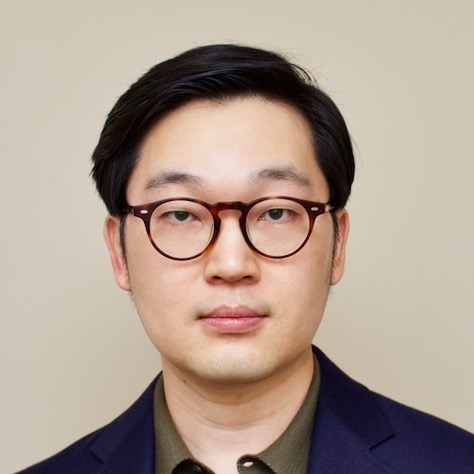
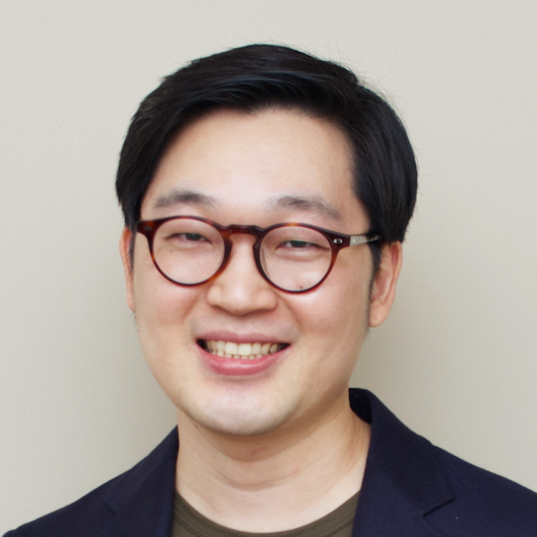
refined

diff --git a/assets/main.scss b/assets/main.scss
@@ -222,10 +222,19 @@
   display: inline;
   margin: 0 auto;
   margin-left: 0%; //centers the image
-  height: 100%;
+  height: 250px;
   width: auto;
 }
 
+h2  {
+color: #34495E;
+}
+
+a { color: #2a7ae2; text-decoration: none; }
+
+a:visited { color: #1756a9; }
+
+a:hover { color: #111; text-decoration: underline; }
 
 #container {
   display: flex;                  /* establish flex container */

diff --git a/publications.md b/publications.md
@@ -4,47 +4,6 @@ title: Publications
 permalink: /publications/
 ---
 
-<!-- 
-<script src="https://ajax.googleapis.com/ajax/libs/jquery/3.5.1/jquery.min.js"></script>
-<script>
-	$(document).on("click", ".openaa", function() {
-		var index = $(".openaa").index(this);
-		$(".popup-overlay:eq("+index+")").addClass("active");
-		$(".popup-content:eq("+index+")").addClass("active");
-});
-
-
-//removes the "active" class to .popup and .popup-content when the "Close" button is clicked 
-$(document).on("click", ".closeaa", function() {
-  $(".popup-overlay, .popup-content").removeClass("active");
-});
-
-</script>
-
-Creates the popup body
-<div class="popup-overlay">
-
- <div class="popup-content">
-    <h2>Pop-Up</h2>
-    <p> first.</p>
-
-    <button class="closeaa">Close</button>    
-</div>
-</div>
-
-<div class="popup-overlay">
- <div class="popup-content">
-    <h2>Pop-Up</h2>
-    <p>second.</p>
-    <button class="closeaa">Close</button>    
-</div>
-</div>
-
-
-<button class="openaa">Open</button>
-<button class="openaa">Open</button>
- -->
-
 ## Publications
   
 I have published papers in AI and ML conferences (e.g., UAI, NeurIPS, ICML, AAAI).
@@ -58,125 +17,68 @@ During my PhD study, I mostly spent time on understanding causal discovery from 
 
 
 
-<!-- , <span style="background-color: #00FF00">first author</span>, <span style="background-color: #FFFF00">co-first</span>, <span style="background-color: #00FFFF">second</span> -->
+\* for joint first authorship
 
 
-<!-- Decision Making <button type="button" class="btn btn-set1-3">DM</button>
-Identifiability <button type="button" class="btn btn-set1-1">ID</button>
-Transportability <button type="button" class="btn btn-set1-2">TR</button>
-Relational  <button type="button" class="btn btn-set1-4">REL</button>
-Conditional Independence Test <button type="button" class="btn btn-danger">CIT</button>
- -->
+<button type="button" class="btn btn-set1-3">DM</button> Characterizing Optimal Mixed Policies: Where to Intervene and What to Observe [\[paper\]](/assets/r63-reprint.pdf), [\[slides\]](/assets/2020-neurips-presentation.pdf), [\[poster\]](/assets/2020-neurips-sanghack-poster.pdf)<br> **Sanghack Lee** and Elias Bareinboim<br> NeurIPS 2020<br> 
 
 
-
-<button type="button" class="btn btn-set1-3">DM</button> **Characterizing Optimal Mixed Policies: Where to Intervene and What to Observe**<br>
-Sanghack Lee and Elias Bareinboim<br> 
-NeurIPS 2020<br>
-[\[paper\]](/assets/r63-reprint.pdf), [\[slides\]](/assets/2020-neurips-presentation.pdf), [\[poster\]](/assets/2020-neurips-sanghack-poster.pdf)
+<button type="button" class="btn btn-set1-1">ID</button> Causal Effect Identifiability under Partial-Observability [\[paper\]](https://causalai.net/r58.pdf) <br> **Sanghack Lee**, and Elias Bareinboim<br> ICML 2020<br> 
 
 
-<button type="button" class="btn btn-set1-1">ID</button> **Causal Effect Identifiability under Partial-Observability** <br>
-Sanghack Lee, and Elias Bareinboim<br>
-ICML 2020<br>
-[\[paper\]](https://causalai.net/r58.pdf)
+<button type="button" class="btn btn-set1-2">TR</button> General Transportability --- Synthesizing Experiments from Heterogeneous Domains [\[paper\]](https://aaai.org/ojs/index.php/AAAI/article/view/6582/6438)<br> **Sanghack Lee**, Juan D. Correa, and Elias Bareinboim<br> AAAI 2020<br> 
+
+<button type="button" class="btn btn-set1-1">ID</button> Identifiability from a Combination of Observations and Experiments [\[paper\]](https://aaai.org/ojs/index.php/AAAI/article/view/7119/6973), [\[slides\]](/assets/AAAI2020-GID-key.pdf)<br> **Sanghack Lee**, Juan D. Correa, and Elias Bareinboim<br> AAAI 2020 <br> 
+
+
+<button type="button" class="btn btn-set1-1">ID</button> General Identifiability with Arbitrary Surrogate Experiments [\[paper\]](http://auai.org/uai2019/proceedings/papers/144.pdf) <br> **Sanghack Lee**, Juan D. Correa, and Elias Bareinboim<br> UAI 2019, <font color="#e41a1c">Best Paper Award</font> <br> 
+
+<button type="button" class="btn btn-set1-4">REL</button>  Towards Robust Relational Causal Discovery [\[paper\]](http://auai.org/uai2019/proceedings/papers/127.pdf) <br> **Sanghack Lee** and Vasant Honavar <br> UAI 2019<br> 
 
 
 
-<button type="button" class="btn btn-set1-2">TR</button> **General Transportability --- Synthesizing Experiments from Heterogeneous Domains** <br>
-Sanghack Lee, Juan D. Correa, and Elias Bareinboim<br>
-AAAI 2020<br>
-[\[paper\]](https://aaai.org/ojs/index.php/AAAI/article/view/6582/6438)
+<button type="button" class="btn btn-set1-3">DM</button> Fairness in Algorithmic Decision Making: An Excursion Through the Lens of Causality [\[paper\]](https://arxiv.org/pdf/1903.11719.pdf)<br> Aria Khademi, **Sanghack Lee**, David Foley, and Vasant Honavar<br> WWW 2019<br> 
 
-
-<button type="button" class="btn btn-set1-1">ID</button> **Identifiability from a Combination of Observations and Experiments** <br>
-Sanghack Lee, Juan D. Correa, and Elias Bareinboim<br>
-AAAI 2020 <br>
-[\[paper\]](https://aaai.org/ojs/index.php/AAAI/article/view/7119/6973), [\[slides\]](/assets/AAAI2020-GID-key.pdf) 
+<button type="button" class="btn btn-set1-3">DM</button> On Structural Causal Bandit with Non-manipulable Variables [\[paper\]](https://causalai.net/r40.pdf), [\[poster\]](/assets/AAAI2019_poster.pdf), [\[slides\]](/assets/AAAI2019_presentation.pdf)<br> **Sanghack Lee** and Elias Bareinboim <br> AAAI 2019<br> 
 
 
 
-<button type="button" class="btn btn-set1-1">ID</button> **General Identifiability with Arbitrary Surrogate Experiments** <br>
-Sanghack Lee, Juan D. Correa, and Elias Bareinboim<br>
-UAI 2019, <font color="#e41a1c">Best Paper Award</font> <br>
-[\[paper\]](http://auai.org/uai2019/proceedings/papers/144.pdf)  
-		
-
-<button type="button" class="btn btn-set1-4">REL</button>  **Towards Robust Relational Causal Discovery** <br>
-Sanghack Lee and Vasant Honavar <br>
-UAI 2019<br>
- [\[paper\]](http://auai.org/uai2019/proceedings/papers/127.pdf)
-
-<button type="button" class="btn btn-set1-3">DM</button> **Fairness in Algorithmic Decision Making: An Excursion Through the Lens of Causality**<br>
-Aria Khademi, Sanghack Lee, David Foley, and Vasant Honavar<br>
-WWW 2019<br>
- [\[paper\]](https://arxiv.org/pdf/1903.11719.pdf)
-
-<button type="button" class="btn btn-set1-3">DM</button> **On Structural Causal Bandit with Non-manipulable Variables** <br>
-Sanghack Lee and Elias Bareinboim <br>
-AAAI 2019<br>
-[\[paper\]](https://causalai.net/r40.pdf), [\[poster\]](/assets/AAAI2019_poster.pdf), [\[slides\]](/assets/AAAI2019_presentation.pdf) 
+<button type="button" class="btn btn-set1-3">DM</button>  Structural Causal Bandits: Where to Intervene? [\[paper\]](https://causalai.net/r36.pdf), [\[code\]](https://github.com/sanghack81/SCMMAB-NIPS2018), [\[poster\]](/assets/nips2018-poster.pdf)<br> **Sanghack Lee** and Elias Bareinboim<br> NeurIPS 2018<br> 
 
 
-<button type="button" class="btn btn-set1-3">DM</button>  **Structural Causal Bandits: Where to Intervene?**<br>
-Sanghack Lee and Elias Bareinboim<br>
-NeurIPS 2018<br>
-  [\[paper\]](https://causalai.net/r36.pdf), [\[code\]](https://github.com/sanghack81/SCMMAB-NIPS2018), [\[poster\]](/assets/nips2018-poster.pdf) 
+### Pre-Ph.D. ---
+
+<button type="button" class="btn btn-set1-4">REL</button> <button type="button" class="btn btn-set1-5">CIT</button>  A Kernel Conditional Independence Test for Relational Data [\[code\]](https://github.com/sanghack81/KRCIT), [\[paper\]](/assets/krcit.pdf)<br> **Sanghack Lee** and Vasant Honavar<br> UAI 2017<br> 
 
 
-<button type="button" class="btn btn-set1-4">REL</button> <button type="button" class="btn btn-set1-5">CIT</button>  **A Kernel Conditional Independence Test for Relational Data**<br>
-Sanghack Lee and Vasant Honavar<br>
-UAI 2017<br>
-[\[code\]](https://github.com/sanghack81/KRCIT), [\[paper\]](/assets/krcit.pdf)
+<button type="button" class="btn btn-set1-5">CIT</button> Self-Discrepancy Conditional Independence Test [\[code\]](https://github.com/sanghack81/SDCIT), [\[paper\]](/assets/SDCIT-edited.pdf)<br> **Sanghack Lee** and Vasant Honavar<br> UAI 2017<br> 
+
+<button type="button" class="btn btn-set1-4">REL</button> A Characterization of Markov Equivalence Classes for Relational Causal Model with Path Semantics [\[code\]](https://github.com/sanghack81/pyRCDs), [\[paper\]](/assets/UAI-2016-RpCD.pdf), [\[appendix\]](/assets/UAI-2016-RpCD-supp_fix_june_4.pdf)<br> **Sanghack Lee** and Vasant Honavar<br> UAI 2016<br> 
+
+<button type="button" class="btn btn-set1-4">REL</button> On Learning Causal Models from Relational Data [\[code\]](https://github.com/sanghack81/rcd-light) [\[paper\]](https://www.aaai.org/ocs/index.php/AAAI/AAAI16/paper/view/11972/12089)<br> **Sanghack Lee** and Vasant Honavar<br> AAAI 2016 <br> 
 
 
-<button type="button" class="btn btn-set1-5">CIT</button> **Self-Discrepancy Conditional Independence Test**<br>
-Sanghack Lee and Vasant Honavar<br>
-UAI 2017<br>
-[\[code\]](https://github.com/sanghack81/SDCIT), [\[paper\]](/assets/SDCIT-edited.pdf)
-
-<button type="button" class="btn btn-set1-4">REL</button> **A Characterization of Markov Equivalence Classes for Relational Causal Model with Path Semantics** <br>
-Sanghack Lee and Vasant Honavar<br>
-UAI 2016<br>
-[\[code\]](https://github.com/sanghack81/pyRCDs), [\[paper\]](/assets/UAI-2016-RpCD.pdf), [\[appendix\]](/assets/UAI-2016-RpCD-supp_fix_june_4.pdf) 
-
-<button type="button" class="btn btn-set1-4">REL</button> **On Learning Causal Models from Relational Data** <br>
-Sanghack Lee and Vasant Honavar<br>
-AAAI 2016 <br>
-[\[code\]](https://github.com/sanghack81/rcd-light) [\[paper\]](https://www.aaai.org/ocs/index.php/AAAI/AAAI16/paper/view/11972/12089) 
+"Teens are from Mars, Adults are from Venus": Analyzing and Predicting Age Groups with Behavioral Characteristics in Instagram [\[paper\]](http://dl.acm.org/citation.cfm?id=2908160)<br> Kyungsik Han, **Sanghack Lee**, Jin Yea Jang, Yong Jung, and Dongwon Lee<br> WebSci 2016<br> 
 
 
-**"Teens are from Mars, Adults are from Venus": Analyzing and Predicting Age Groups with Behavioral Characteristics in Instagram**<br>
-Kyungsik Han, Sanghack Lee, Jin Yea Jang, Yong Jung, and Dongwon Lee<br>
-WebSci 2016<br>
-[\[paper\]](http://dl.acm.org/citation.cfm?id=2908160) 
+
+<button type="button" class="btn btn-set1-4">REL</button> Lifted Representation of Relational Causal Models Revisited: Implications for Reasoning and Structure Learning [\[paper\]](http://dl.acm.org/citation.cfm?id=3020273)<br> **Sanghack Lee** and Vasant Honavar<br> UAI 2015 Workshop on Advances in Causal Inference<br> 
 
 
-<button type="button" class="btn btn-set1-4">REL</button> **Lifted Representation of Relational Causal Models Revisited: Implications for Reasoning and Structure Learning**<br>
-Sanghack Lee and Vasant Honavar<br>
-UAI 2015 Workshop on Advances in Causal Inference<br>
-[\[paper\]](http://dl.acm.org/citation.cfm?id=3020273)
-
-<button type="button" class="btn btn-set1-2">TR</button>  **Transportability from Multiple Environments with Limited Experiments**<br>
-Elias Bareinboim\*, Sanghack Lee\*, Vasant Honavar, and Judea Pearl<br>
-NeurIPS 2013<br>
-[\[paper\]](https://papers.nips.cc/paper/5536-transportability-from-multiple-environments-with-limited-experiments-completeness-results)
-
-<button type="button" class="btn btn-set1-2">TR</button> **Causal Transportability of Experiments on Controllable Subsets of Variables: z-Transportability**<br>
-Sanghack Lee and Vasant Honavar<br>
-UAI 2013<br>
-[\[paper\]](http://dl.acm.org/citation.cfm?id=3023675)
-
-<button type="button" class="btn btn-set1-2">TR</button> **m-Transportability: Transportability of a Causal Effect from Multiple Environments**<br>
-Sanghack Lee and Vasant Honavar<br>
-AAAI 2013<br>
-
-**Learning Classifiers from Distributional Data**<br>
-Harris Lin\*, Sanghack Lee\*, Ngot Bui\*, and Vasant Honavar<br>
-IEEE Second International Congress on Big Data
+<button type="button" class="btn btn-set1-2">TR</button>  Transportability from Multiple Environments with Limited Experiments [\[paper\]](https://papers.nips.cc/paper/5536-transportability-from-multiple-environments-with-limited-experiments-completeness-results)<br> Elias Bareinboim\*, **Sanghack Lee**\*, Vasant Honavar, and Judea Pearl<br> NeurIPS 2013<br> 
 
 
-\* equally contributed.
+<button type="button" class="btn btn-set1-2">TR</button> Causal Transportability of Experiments on Controllable Subsets of Variables: z-Transportability [\[paper\]](http://dl.acm.org/citation.cfm?id=3023675)<br> **Sanghack Lee** and Vasant Honavar<br> UAI 2013<br> 
+
+
+<button type="button" class="btn btn-set1-2">TR</button> m-Transportability: Transportability of a Causal Effect from Multiple Environments<br> **Sanghack Lee** and Vasant Honavar<br> AAAI 2013<br>
+
+
+Learning Classifiers from Distributional Data<br> Harris Lin\*, **Sanghack Lee**\*, Ngot Bui\*, and Vasant Honavar<br> IEEE Second International Congress on Big Data
+
+
+
+
 
 <!-- - (pre-PhD) A New Polynimial Time Algorithm for Bayesian Network Structure Learning
 In Proceedings of the Second International Conference on Advanced Data Mining and Applications (ADMA 2006). pp. 501-508. (LNAI 4093)

diff --git a/index.md b/index.md
@@ -16,11 +16,12 @@ Columbia University.
 
 
 <div id="container">
-	  <div float="left" border=10px>
-  	<div class="image-cropper">
-<img src="assets/slee.jpeg" class="profile-pic"/>
-</div>
-  </div>
+	<!--   <div float="left" border=10px>
+  	 <div class="image-cropper">-->
+
+<!-- </div>
+  </div> -->
+  <img src="assets/slee.jpeg" class="profile-pic"/>
   <div id="aboutme" float="right">
 <p style="margin-bottom:3mm;">
 	I am an <b>Associate Research Scientist</b> at <b>Columbia University</b>  working with Prof. <a href="http://causalai.net">Elias Bareinboim</a>. Prior to joining Columbia University, I was a Postdoctoral Research Associate at Computer Science, Purdue University.
@@ -28,18 +29,40 @@ I got my Ph.D. in College of Information Sciences and Technology (with computer 
 </p>
 Currently, I am working on developing methods for applying causality in sequential decision-making
 and developing theory of causal effect identifiability and transportability.
-During my Ph.D. study, I focused on causal discovery in relational domain.
+During my Ph.D. study, I focused on causal discovery in relational domain.<br>
 [<a href="/assets/cv.pdf">Curriculum Vitae</a>]
   </div>
+  
 </div>
 
 <br>
 <!-- , 
 [<a href="https://linkedin.com/in/sanghack-lee-65b52a28"><i class="fa fa-linkedin"></i>LinkedIn</a>] -->
 
+<p style="margin-bottom:1.25cm;"></p>
+## Research Interests
+
+- **Causal Inference** (how can we identify the effect of an intervention?),  **Causal Decision Making** (how can we utilize causal information in decision making?),  **Causal Discovery** (how can we establish causal relationships from complex data?) 
+- (Future) Developing theories and applications for *health* and *social* domains with causality as a first principle by bringing ideas from *economics*. Developing machine learning algorithms utilizing causal knowledge. Studying 
+
 
 <p style="margin-bottom:1.25cm;"></p>
-## news --- 
+## Employment & Education
+
+| :--- || ---: | ---: | ---: |
+| **Columbia Univeristy**  || Associate Research Scientist | |2019---present |
+| **Purdue University**  | |Postdoctoral Research Associate | |2018---2019 |
+| **Pennsylvania State University** | |Ph.D. | |2013---2018 |
+
+<!-- - ,  Associate Research Scientist, (2019--present)
+- Purdue University, Postdoctoral Research Associate, (2018--2019) 
+- (2013--2018) Ph.D. Pennsylvania State University, University Park, 
+ --><!-- - BE & MSc Sogang University (South Korea)  -->
+<p style="margin-bottom:1.25cm;"></p>
+
+
+
+## News
 - (Sep 2020) A paper on exploring the optimal policy for structural causal bandits accepted at **NeurIPS'20**!
 - (Aug 2020) Invited talk at CSE AIGS, POSTECH, South Korea
 - (Jun 2020) A paper on identifiability with partial-observability is accepted at **ICML'20**.
@@ -53,11 +76,11 @@ During my Ph.D. study, I focused on causal discovery in relational domain.
 - (Sep 2018) My paper (with Prof. Bareinboim) is accepted at **[NeurIPS'18](https://nips.cc/Conferences/2018/Schedule?showEvent=11265)**. 
 
 <p style="margin-bottom:1.25cm;"></p>
-## academic activities --- 
+## Academic Activities
 
-Program Committee member for 
+Program Committee for 
 
-- 2021 ICLR, AAAI, AISTATS, UAI
+- 2021 ICLR, AAAI, AISTATS, UAI, ICML
 - 2020 NeurIPS, UAI, ICML, AAAI, AISTATS, IEEE Transactions on Pattern Analysis and Machine Intelligence (TPAMI), Journal of Artificial Intelligence (AIJ), Journal of Causal Inference (JCI), [NeurIPS Workshop on Causal Discovery and Causality-Inspired Machine Learning](https://www.cmu.edu/dietrich/causality/neurips20ws/) (CDML, Area Chair)
 - 2019 NeurIPS, [WHY conference](https://why19.causalai.net),
  Journal of Machine Learning Research (JMLR), 2017 [Causality Workshop at UAI](https://causalai.net/causal-uai17/), 2016 ACM CHI, 2014 ACM Transactions on Intelligent Systems and Technology
